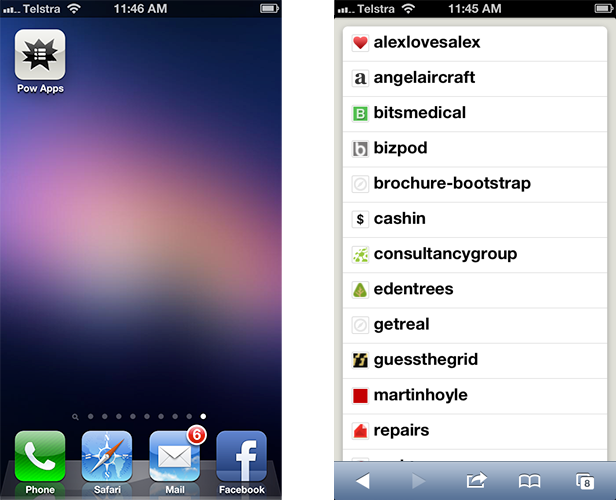
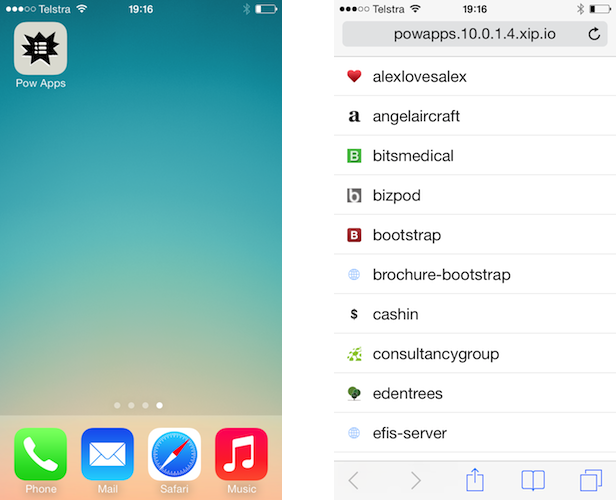
Update screenshots to version 1.0

diff --git a/index.html b/index.html
@@ -42,7 +42,7 @@
 
 <h2>Installation</h2>
 
-<p>Clone into <code>~/.pow</code></p>
+<p>No dependencies. Just clone into `~/.pow` <code>~/.pow</code></p>
 
 <div class="highlight"><pre><span class="nv">$ </span><span class="nb">cd</span> ~/.pow
 <span class="nv">$ </span>git clone https://github.com/daz/powapps.git
@@ -54,6 +54,6 @@
       </footer>
     </div>
     <script src="javascripts/scale.fix.js"></script>
-    
+
   </body>
 </html>
